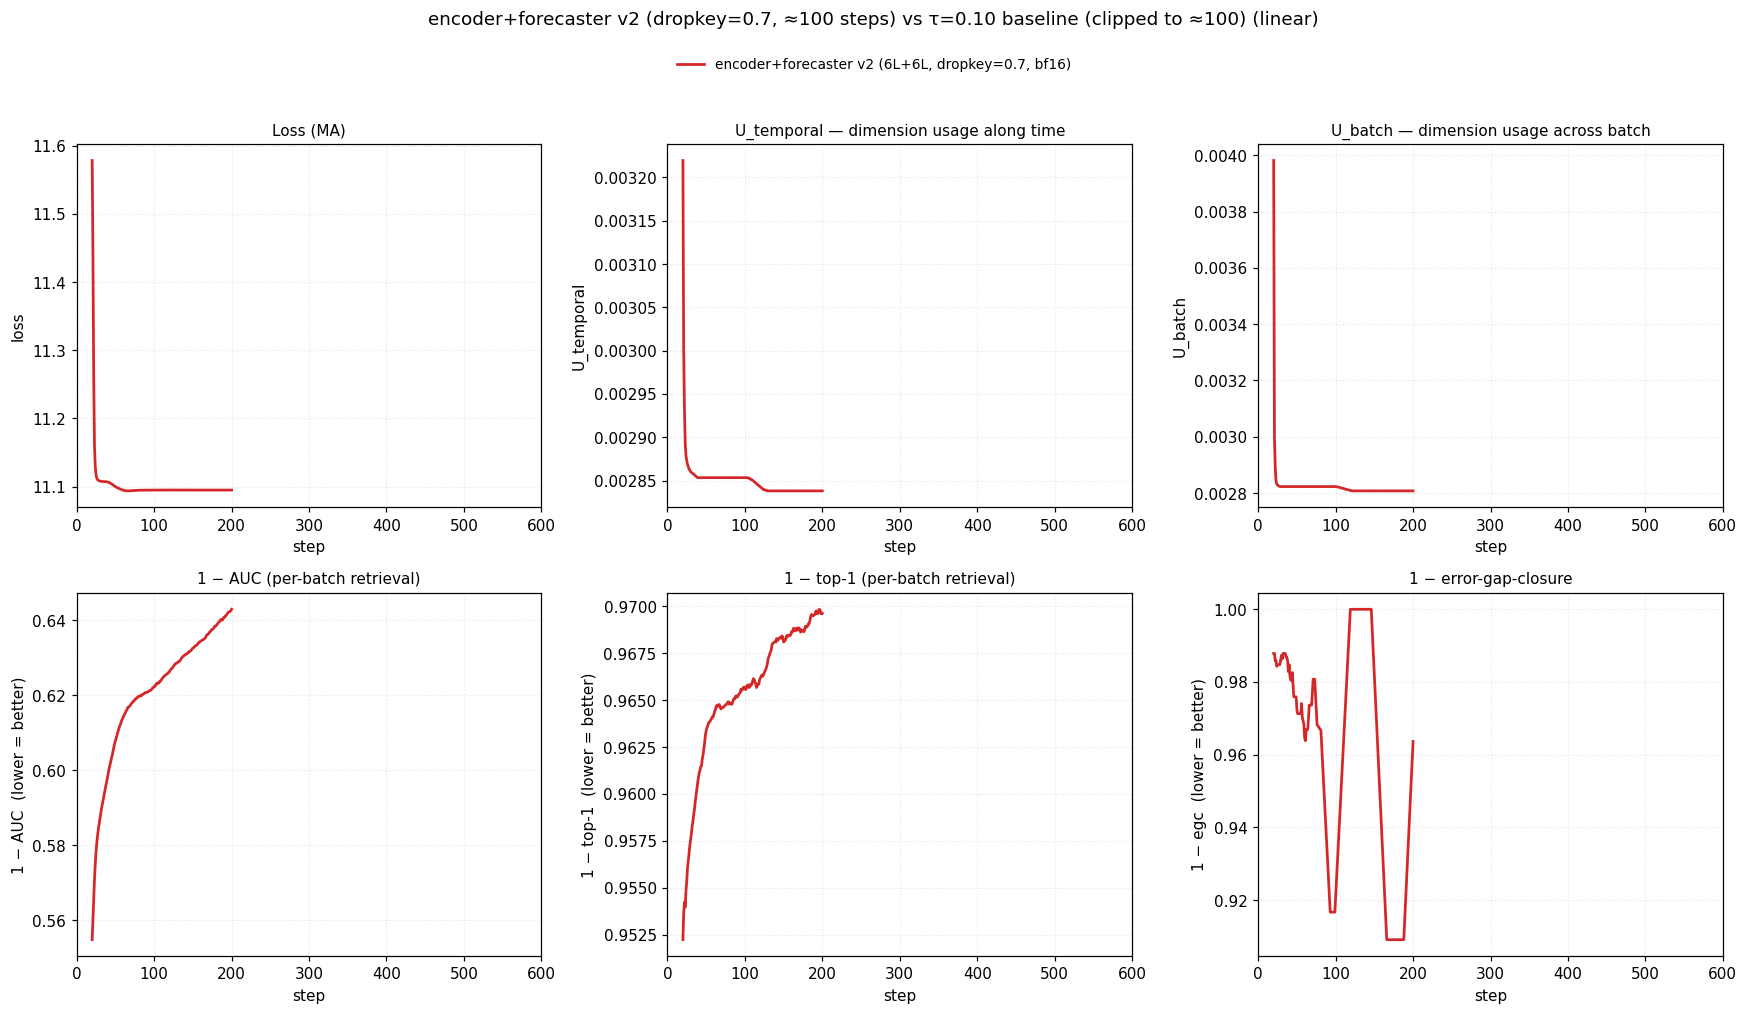
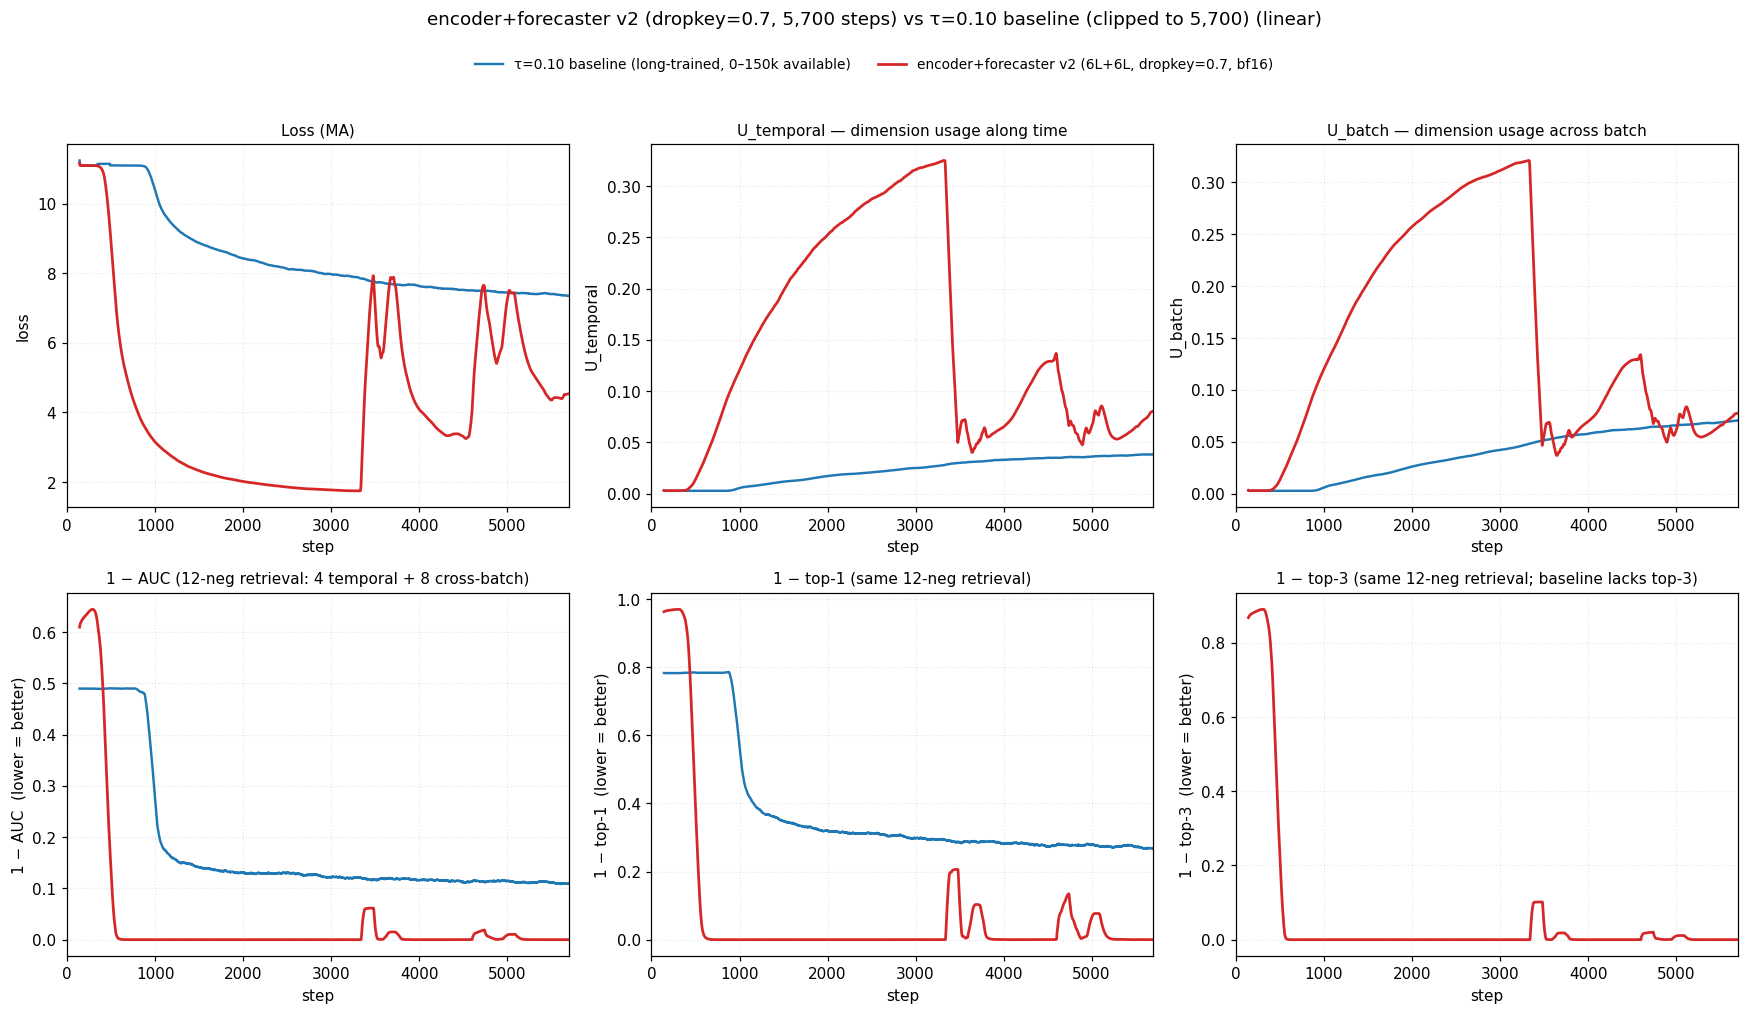
plot(enc-fcst-v2): row 2 → 1−AUC / 1−top-1 / 1−top-3; clip-then-smooth
- Row 2 panels: 1−AUC, 1−top-1, 1−top-3 (canonical 12-neg retrieval:
  4 same-sample temporal lags {1,2,4,8} + 8 cross-batch at the positive
  time). Drops 1−egc to keep 2×3 grid.
- Baseline τ=0.10 CSVs predate top-3 logging — 1−top-3 panel shows the
  new arm only.
- xmax now exactly = min(new_arm_max, baseline_max) (no +500 margin),
  so the right edge lands on the new arm's most recent step.
- plot_panel: clip trajectory to xlim BEFORE smoothing (proportional
  window). Otherwise the 150k baseline gets a 1000-step window and its
  first plottable point lands at step 1000 — invisible while the new
  arm is still under 1000 steps.

diff --git a/experiments/2026-05-11_exp_encoder_forecaster/scripts/plot_progress.py b/experiments/2026-05-11_exp_encoder_forecaster/scripts/plot_progress.py
@@ -5,15 +5,21 @@ Reads per-step training-batch metrics from the losses CSVs and renders a
 2x3 panel of trajectories smoothed with a moving average:
 
     loss                 |  U_temporal              |  U_batch
-    1 - per-batch AUC    |  1 - per-batch top-1     |  1 - error-gap-closure
+    1 - AUC              |  1 - top-1               |  1 - top-3
+
+`auc` / `top1` / `top3` are the canonical retrieval metrics: positive at
+lag 0 ranked against 12 negatives (4 same-sample temporal lags
+{1,2,4,8} + 8 cross-batch at the positive time). The baseline τ=0.10
+CSVs predate top-3 (only `auc` + `top1` were logged at the time), so
+the 1-top3 panel shows only the new arm.
 
 Two PNGs are produced in one call:
 
     plots/progress.png        — log-x on all panels; log-y on
-                                loss / 1-AUC / 1-top1 / 1-egc
+                                loss / 1-AUC / 1-top1 / 1-top3
     plots/progress_linear.png — same panels, linear x; linear y for
                                 loss / U_temporal / U_batch; the AUC /
-                                top-1 / egc panels still show `1-metric`
+                                top-1 / top-3 panels still show `1-metric`
                                 (linear y) so small residuals near 1 are
                                 visible.
 
@@ -85,7 +91,7 @@ ARMS = [
      False),
 ]
 
-COLS = ("loss", "ff", "fp", "u_temporal", "u_batch", "auc", "top1")
+COLS = ("loss", "ff", "fp", "u_temporal", "u_batch", "auc", "top1", "top3")
 
 
 def smooth(x: np.ndarray, w: int) -> np.ndarray:
@@ -170,24 +176,32 @@ def plot_panel(ax, traj_by_label, *, key, ylabel, panel_title,
     for (label, color, ls, lw, _path, _ref), arm in traj_by_label:
         if arm is None:
             continue
-        n = len(arm["step"])
+        # Truncate the trajectory to the visible x-window FIRST, then
+        # smooth. Otherwise the long baseline (150k rows) gets a huge
+        # smoothing window (1000) and its first plottable point is step
+        # 1000 — invisible when the new arm is still under 1000 steps.
+        # Clip-then-smooth gives both arms comparable effective windows
+        # within the visible range.
+        in_arm = (arm["step"] >= xmin) & (arm["step"] <= xmax)
+        if not in_arm.any():
+            continue
+        steps_clip = arm["step"][in_arm]
+        y_clip = arm[key][in_arm]
+        n = len(steps_clip)
+        # Smoothing window proportional to the *visible* trajectory.
         w = max(20, min(1000, n // 40))
-        y = arm[key]
-        y = transform(y) if transform is not None else y
+        y = transform(y_clip) if transform is not None else y_clip
         if logy and transform is not None:
             mask = np.isfinite(y) & (y > 0)
         else:
             mask = np.isfinite(y)
         if not mask.any():
             continue
-        x_steps = arm["step"][mask]
+        x_steps = steps_clip[mask]
         y = y[mask]
         x_sm, y_sm = _aligned_smooth(x_steps, y, w)
-        in_win = (x_sm >= xmin) & (x_sm <= xmax)
-        if not in_win.any():
-            continue
-        ax.plot(x_sm[in_win], y_sm[in_win], color=color, linestyle=ls,
-                linewidth=lw, label=label)
+        ax.plot(x_sm, y_sm, color=color, linestyle=ls, linewidth=lw,
+                label=label)
     if logx:
         ax.set_xscale("log")
     if logy:
@@ -206,7 +220,7 @@ def render_figure(traj, *, logx, logy_metrics, out_path, scale_tag, xmax,
 
     fig, axes = plt.subplots(2, 3, figsize=(16, 9))
     ax_loss, ax_ut, ax_ub = axes[0]
-    ax_auc, ax_top1, ax_egc = axes[1]
+    ax_auc, ax_top1, ax_top3 = axes[1]
 
     plot_panel(ax_loss, traj, key="loss",
                ylabel="loss" + ("  (log-y)" if "loss" in logy_metrics else ""),
@@ -222,18 +236,18 @@ def render_figure(traj, *, logx, logy_metrics, out_path, scale_tag, xmax,
                transform=None, logy=False, logx=logx, xlim=xlim)
     plot_panel(ax_auc, traj, key="auc",
                ylabel="1 − AUC  (lower = better)",
-               panel_title="1 − AUC (per-batch retrieval)",
+               panel_title="1 − AUC (12-neg retrieval: 4 temporal + 8 cross-batch)",
                transform=lambda y: 1.0 - y, logy="auc" in logy_metrics,
                logx=logx, xlim=xlim)
     plot_panel(ax_top1, traj, key="top1",
                ylabel="1 − top-1  (lower = better)",
-               panel_title="1 − top-1 (per-batch retrieval)",
+               panel_title="1 − top-1 (same 12-neg retrieval)",
                transform=lambda y: 1.0 - y, logy="top1" in logy_metrics,
                logx=logx, xlim=xlim)
-    plot_panel(ax_egc, traj, key="egc",
-               ylabel="1 − egc  (lower = better)",
-               panel_title="1 − error-gap-closure",
-               transform=lambda y: 1.0 - y, logy="egc" in logy_metrics,
+    plot_panel(ax_top3, traj, key="top3",
+               ylabel="1 − top-3  (lower = better)",
+               panel_title="1 − top-3 (same 12-neg retrieval; baseline lacks top-3)",
+               transform=lambda y: 1.0 - y, logy="top3" in logy_metrics,
                logx=logx, xlim=xlim)
 
     handles, labels = ax_loss.get_legend_handles_labels()
@@ -243,8 +257,8 @@ def render_figure(traj, *, logx, logy_metrics, out_path, scale_tag, xmax,
                    bbox_to_anchor=(0.5, 0.985))
 
     fig.suptitle(
-        f"encoder+forecaster v2 (dropkey=0.7, ≈{xmax - 500:,} steps) "
-        f"vs τ=0.10 baseline (clipped to ≈{xmax - 500:,}) ({scale_tag})",
+        f"encoder+forecaster v2 (dropkey=0.7, {xmax:,} steps) "
+        f"vs τ=0.10 baseline (clipped to {xmax:,}) ({scale_tag})",
         fontsize=12, y=1.02)
     fig.tight_layout(rect=(0, 0, 1, 0.96))
     fig.savefig(out_path, dpi=110, bbox_inches="tight")
@@ -261,18 +275,26 @@ def main() -> None:
         raise SystemExit("baseline chunks all missing or empty")
     new_arm_max = int(new_arm["step"].max())
     baseline_max = int(baseline["step"].max())
-    max_step = min(new_arm_max, baseline_max)
-    xmax = max_step + 500
+    # Right edge = the new arm's most recent step. Baseline is clipped to
+    # the same window before smoothing so both curves end at the same x.
+    xmax = min(new_arm_max, baseline_max)
 
-    def _first_smoothed_step(steps_arr: np.ndarray) -> int:
-        n = len(steps_arr)
+    # Log-x lower bound: snap to the smaller of the two arms' first
+    # smoothed point inside the visible window, so the [1..first_step]
+    # decade isn't wasted whitespace. Smoothing window is computed on
+    # the truncated trajectory (matching plot_panel).
+    def _first_smoothed_step_clipped(steps_arr: np.ndarray, x_hi: int) -> int:
+        clip = steps_arr[(steps_arr >= 1) & (steps_arr <= x_hi)]
+        n = len(clip)
+        if n == 0:
+            return 1
         w = max(20, min(1000, n // 40))
         idx = min(n - 1, max(0, w - 1))
-        return int(steps_arr[idx])
+        return int(clip[idx])
     first_step = max(
         1,
-        min(_first_smoothed_step(new_arm["step"]),
-            _first_smoothed_step(baseline["step"])),
+        min(_first_smoothed_step_clipped(new_arm["step"], xmax),
+            _first_smoothed_step_clipped(baseline["step"], xmax)),
     )
 
     traj = []
@@ -291,13 +313,13 @@ def main() -> None:
                   f"u_b={last_window_mean(d['u_batch']):.3f} "
                   f"auc={last_window_mean(d['auc']):.4f} "
                   f"top1={last_window_mean(d['top1']):.4f} "
-                  f"egc={last_window_mean(d['egc']):.3f}")
+                  f"top3={last_window_mean(d['top3']):.4f}")
 
     print(f"[plot] new-arm max = {new_arm_max}, baseline max = {baseline_max}; "
-          f"clipped to min = {max_step}; xlim upper = {xmax}")
+          f"xmax = min = {xmax}")
 
     render_figure(traj, logx=True,
-                  logy_metrics={"loss", "auc", "top1", "egc"},
+                  logy_metrics={"loss", "auc", "top1", "top3"},
                   out_path=OUT_LOG, scale_tag="log–log",
                   xmax=xmax, xmin_log=first_step)
 
